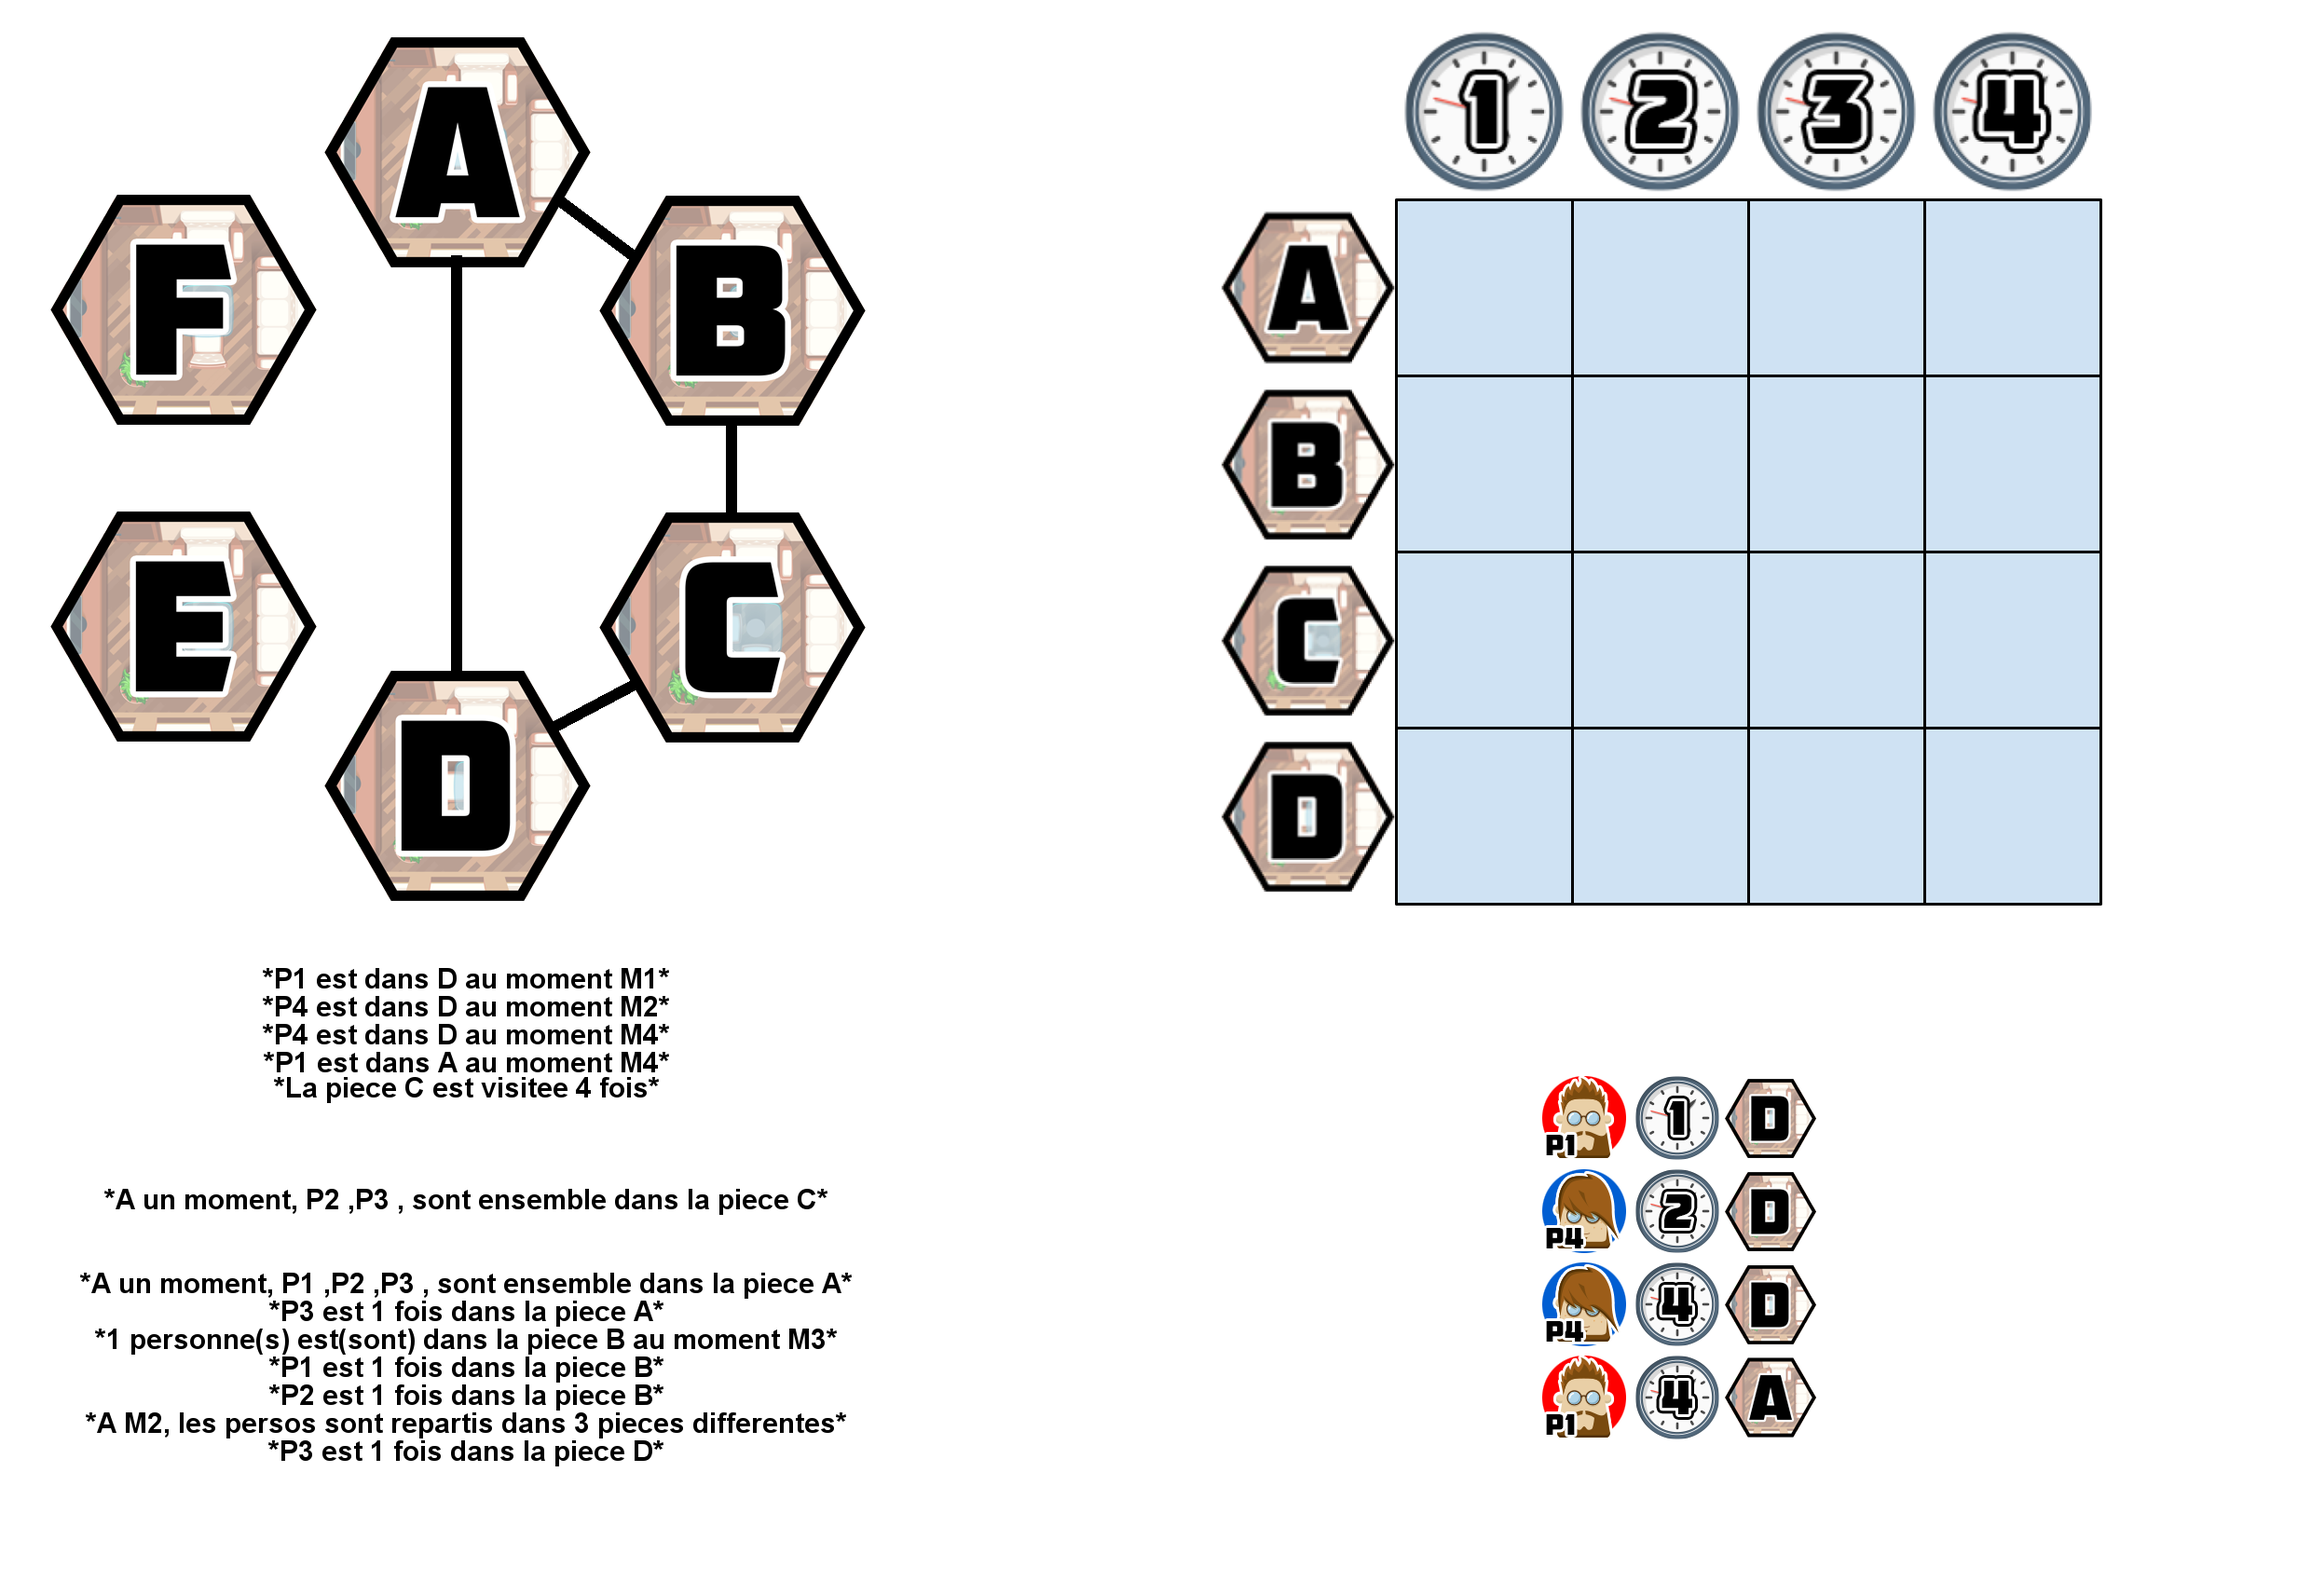
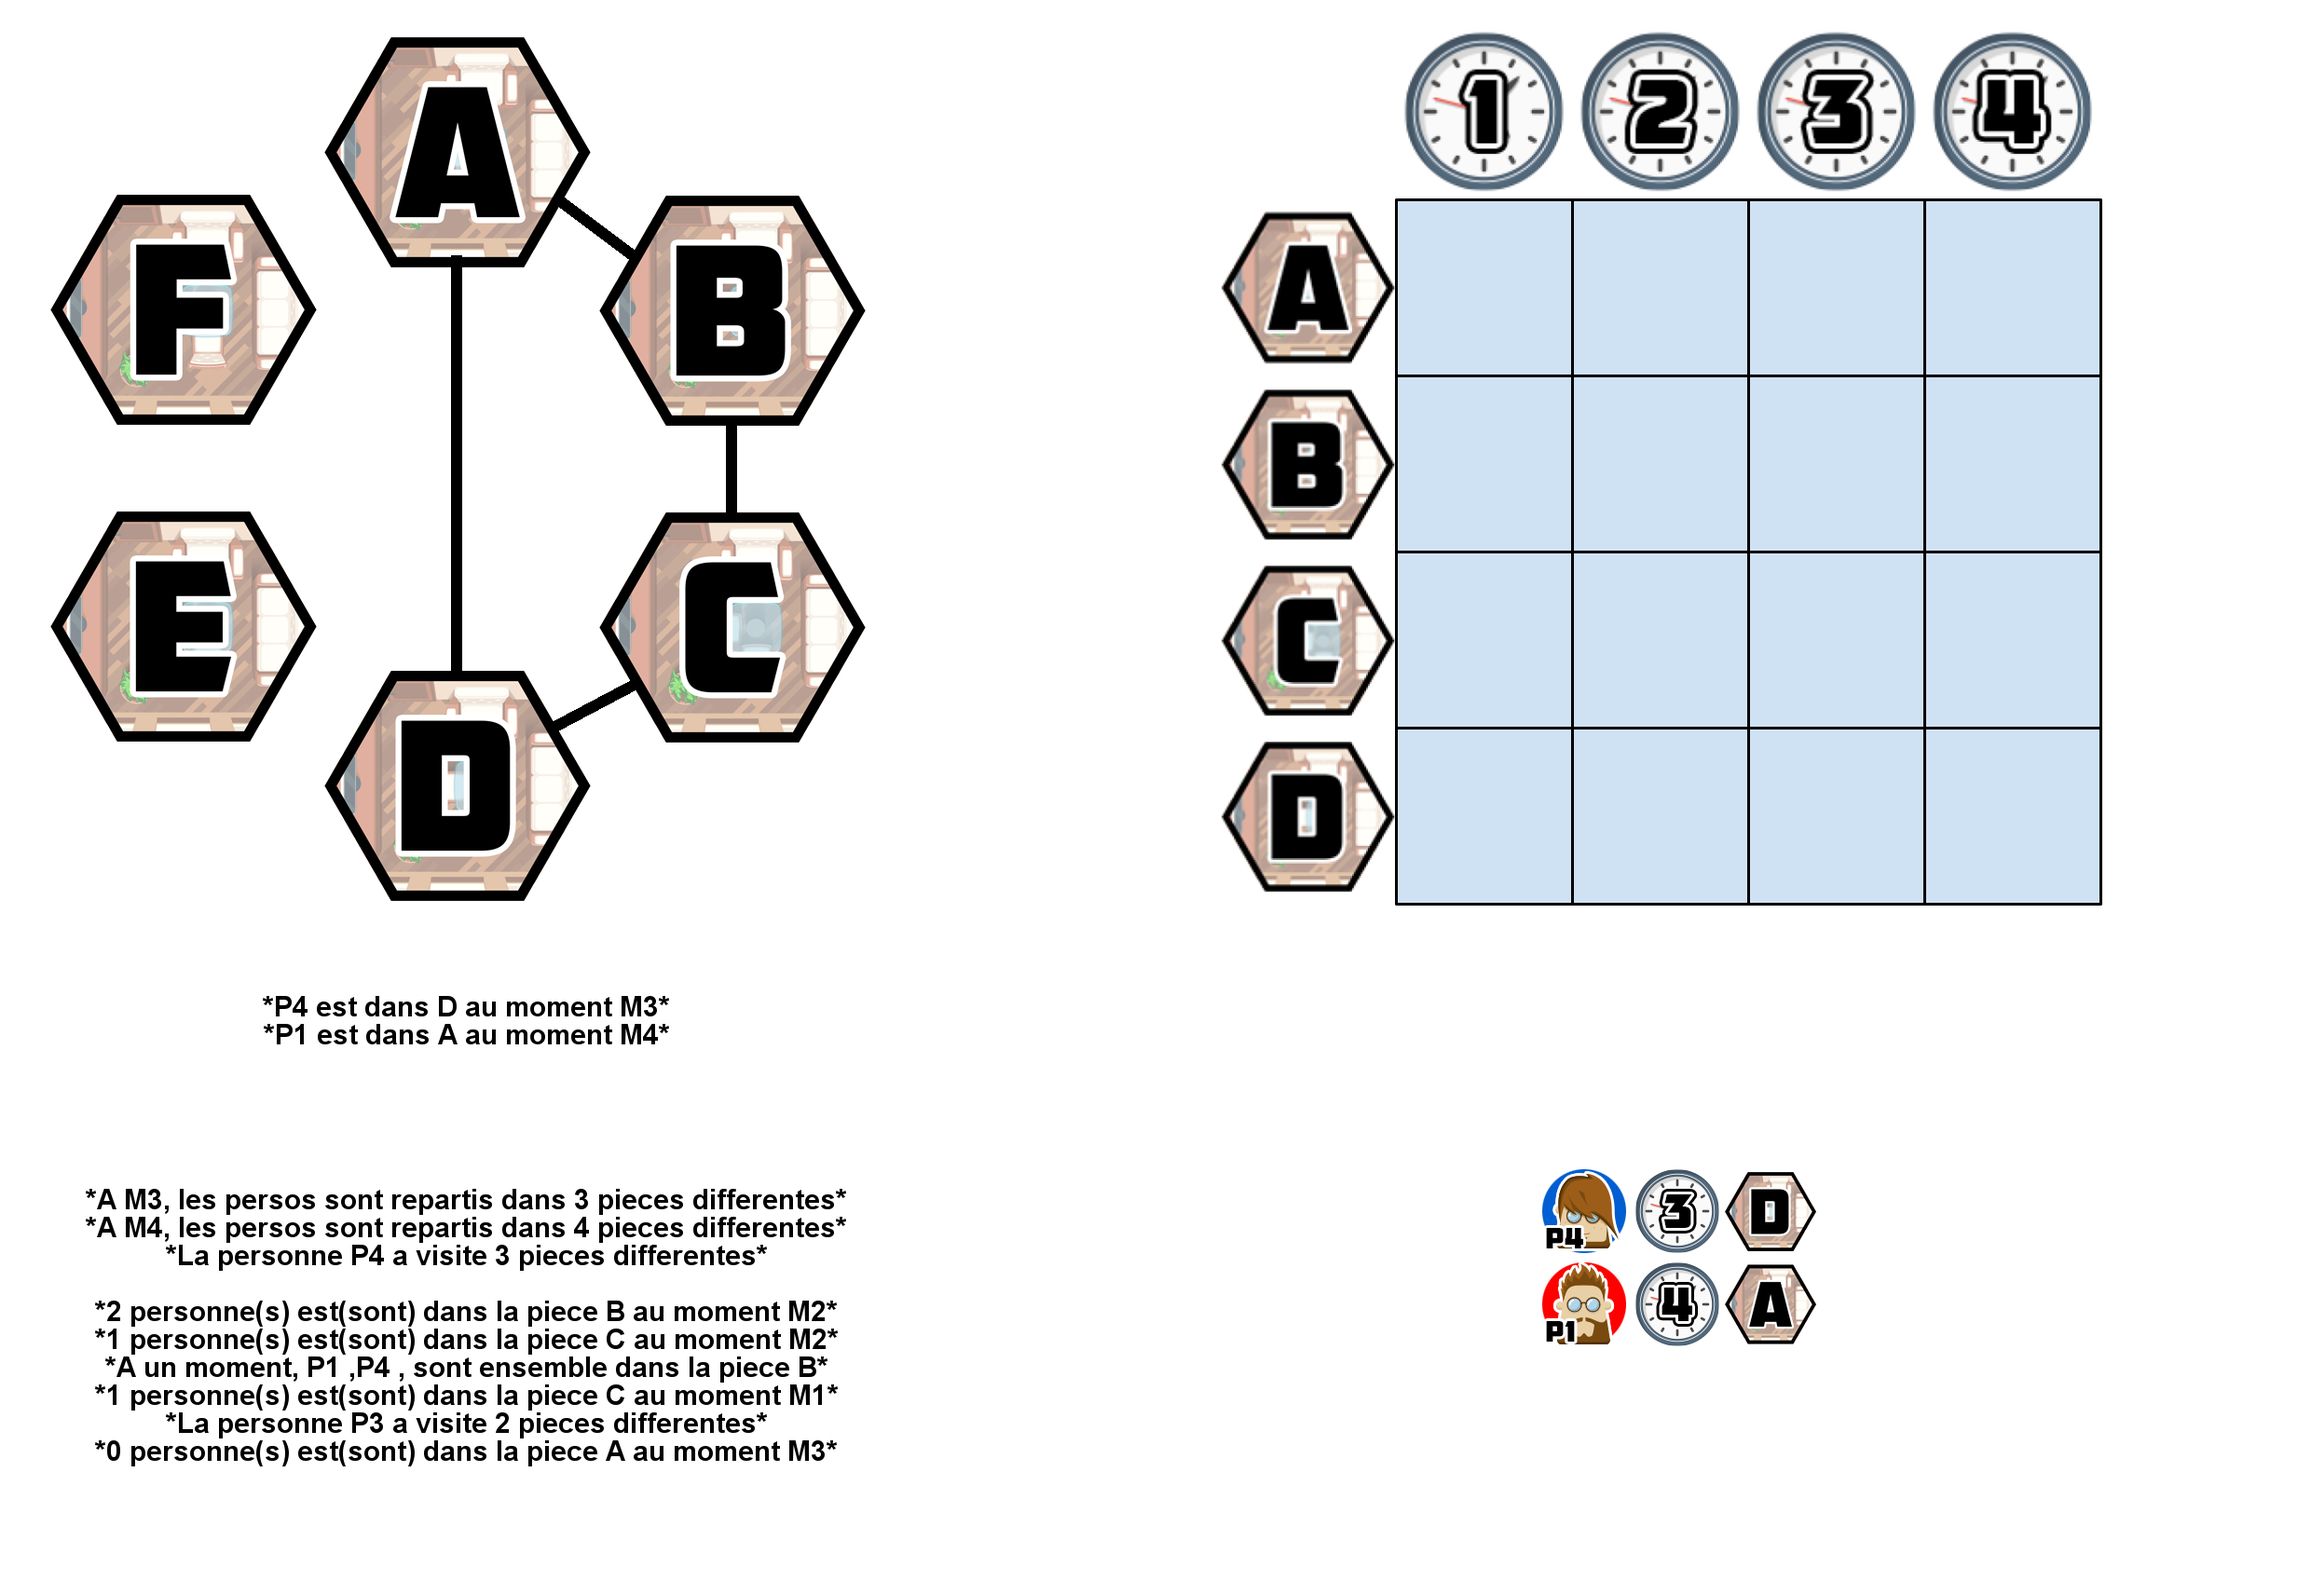
Ajout de l'optimisation optionnelle des indices de départ

diff --git a/src/Problem.java b/src/Problem.java
@@ -105,7 +105,7 @@ public class Problem {
         int ybase=1050;
         for(int i=0;i<list_indices.size();i++){
             Indice ind = list_indices.get(i);
-            if(list_indices.get(i).usefull)
+            if(ind.usefull)
             	DrawTools.drawText(fond,"*" + ind.description + "*",500,ybase+(i*30),"Arial", Color.BLACK,30,0);
             else
             {
@@ -113,7 +113,7 @@ public class Problem {
             		DrawTools.drawText(fond,ind.description,500,ybase+(i*30),"Arial", Color.BLACK,30,0);
             }
             BufferedImage img_ind=ind.export();
-            if (img_ind!=null){
+            if (img_ind!=null && (ind.usefull || !onlyUsefull)){
                 DrawTools.drawImageTransformed(fond.getGraphics(),img_ind,1800,1200+(i*100),0,100);
             }
         }

diff --git a/src/ConfigPartie.java b/src/ConfigPartie.java
@@ -11,6 +11,7 @@ public class ConfigPartie {
     public static int nombre_moment=4;
     public static int nombre_positions_depart=4;
     public static int nombre_indices=15;
+    public static boolean optimize_start_indices=false;
     public static boolean autorise_culdesac=false;
     public static List<Piece> list_toutes_pieces = new ArrayList<>(Arrays.asList(Piece.values()));
     public static List<Moment> list_tous_moments = new ArrayList<>(Arrays.asList(Moment.values()));
